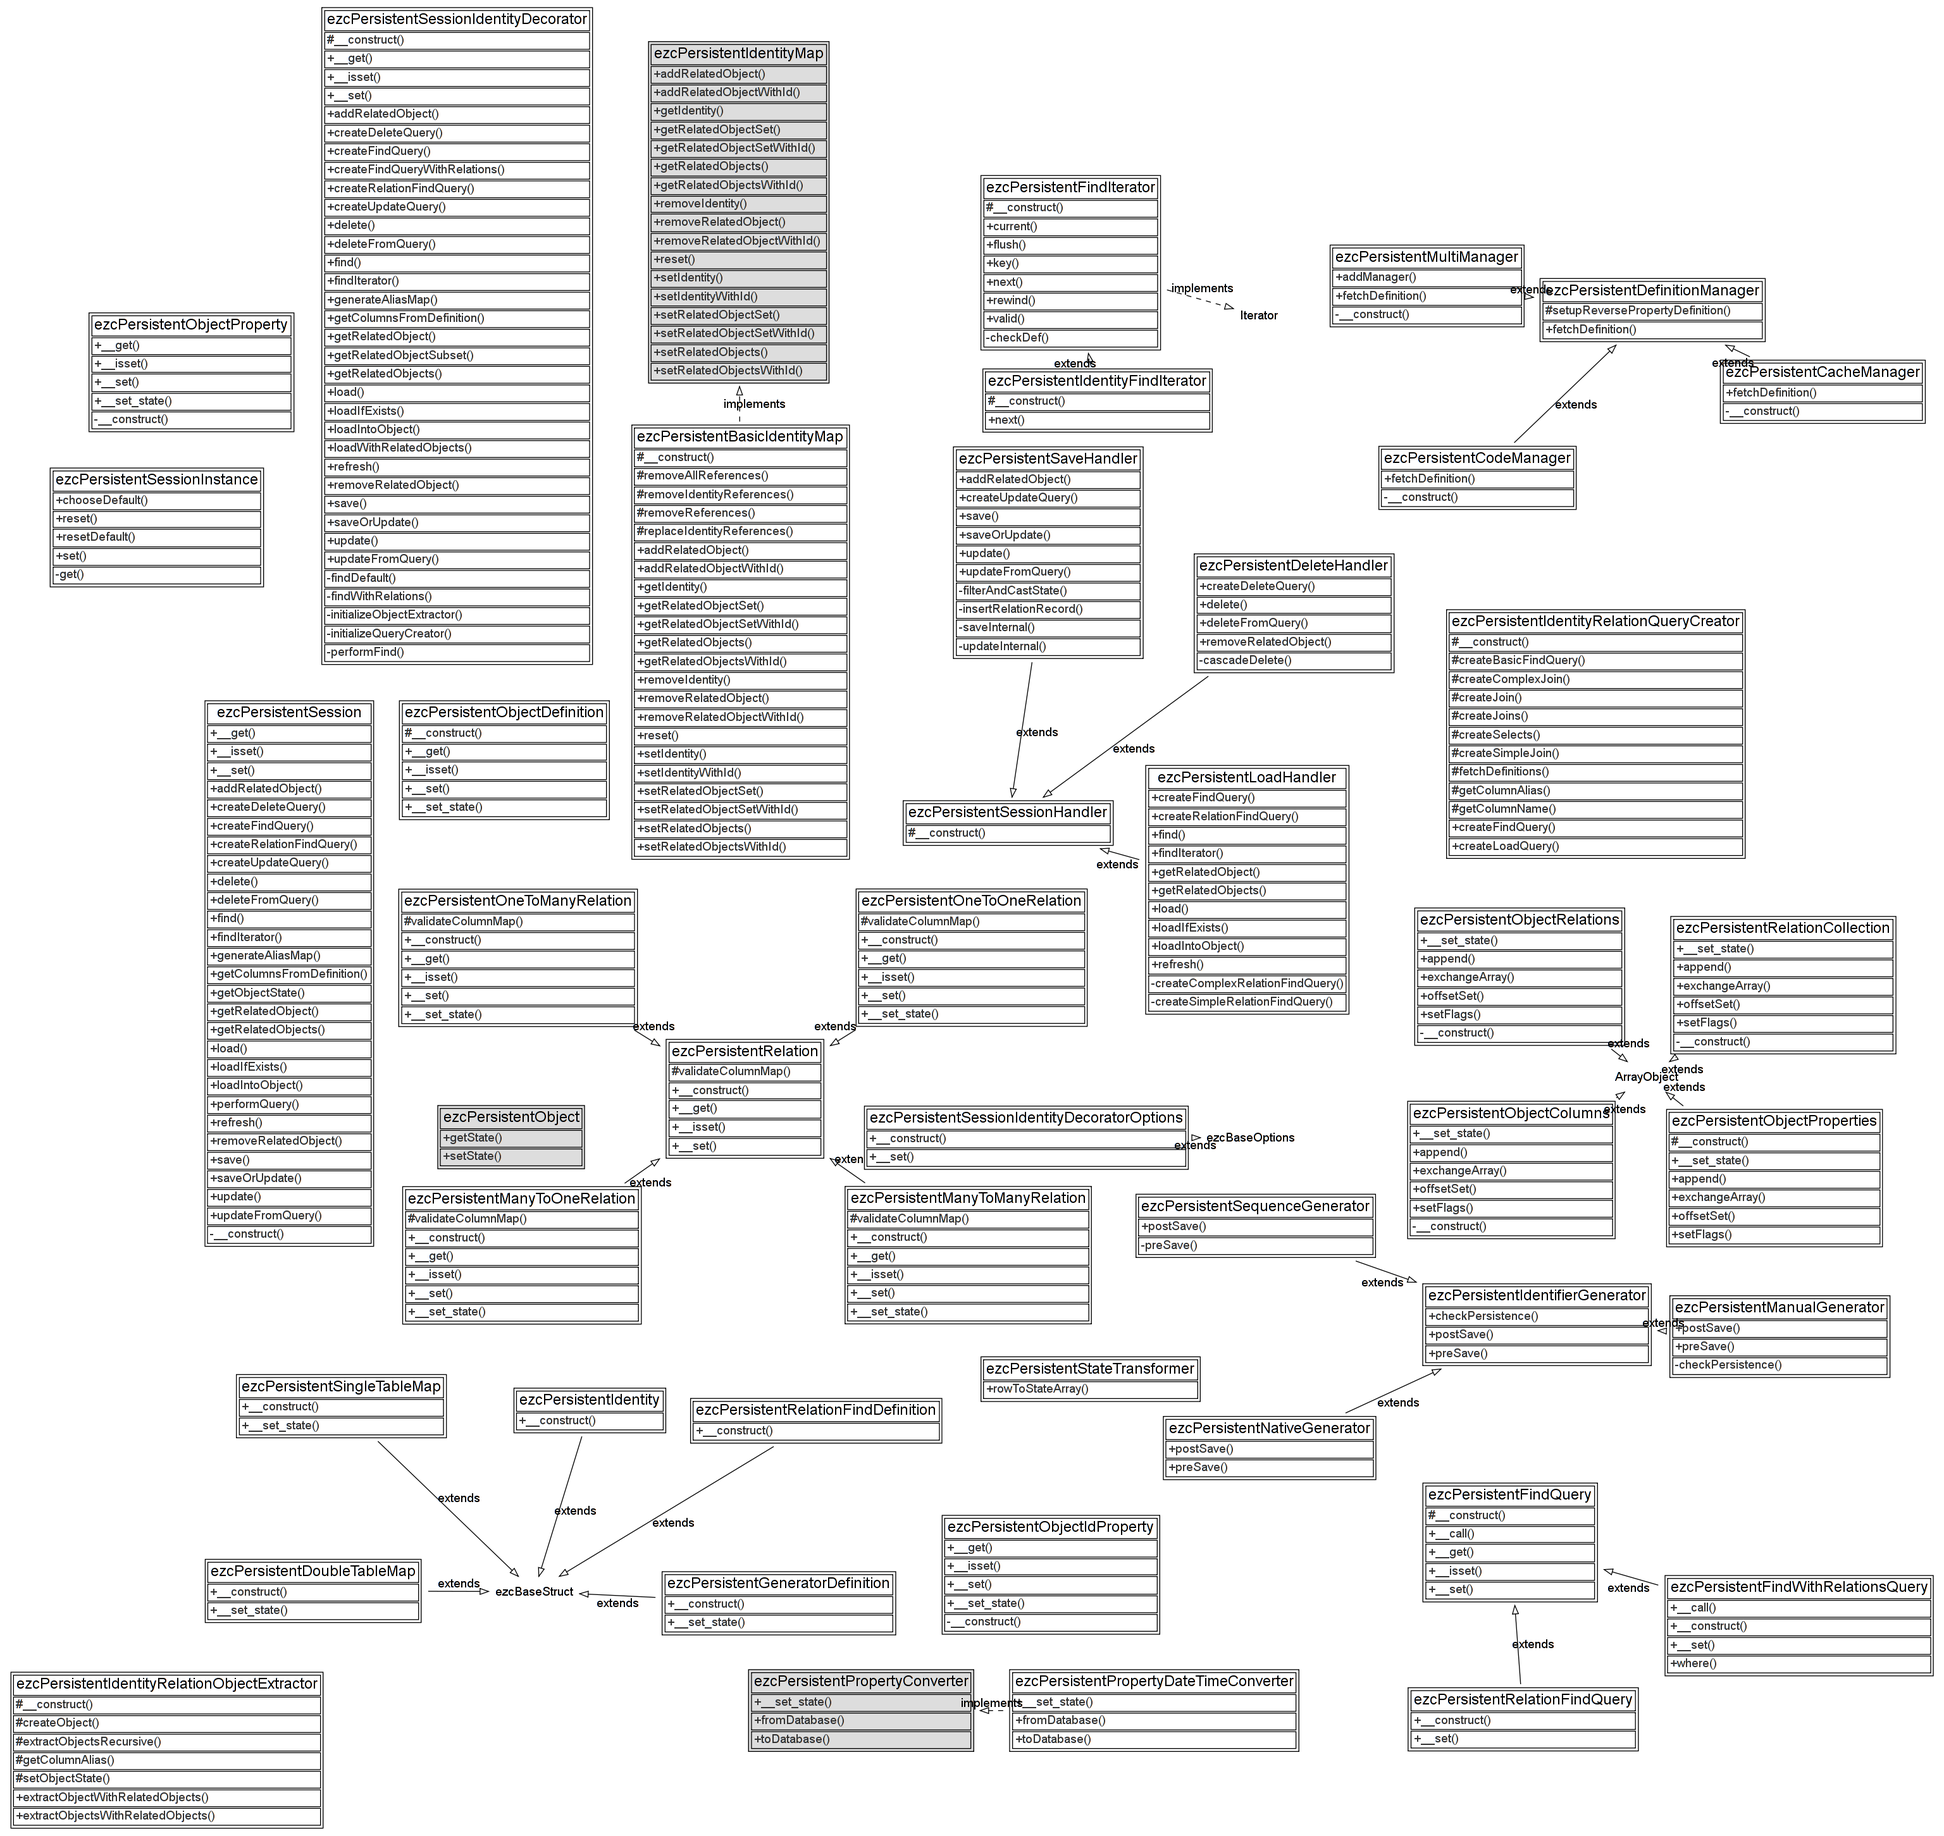
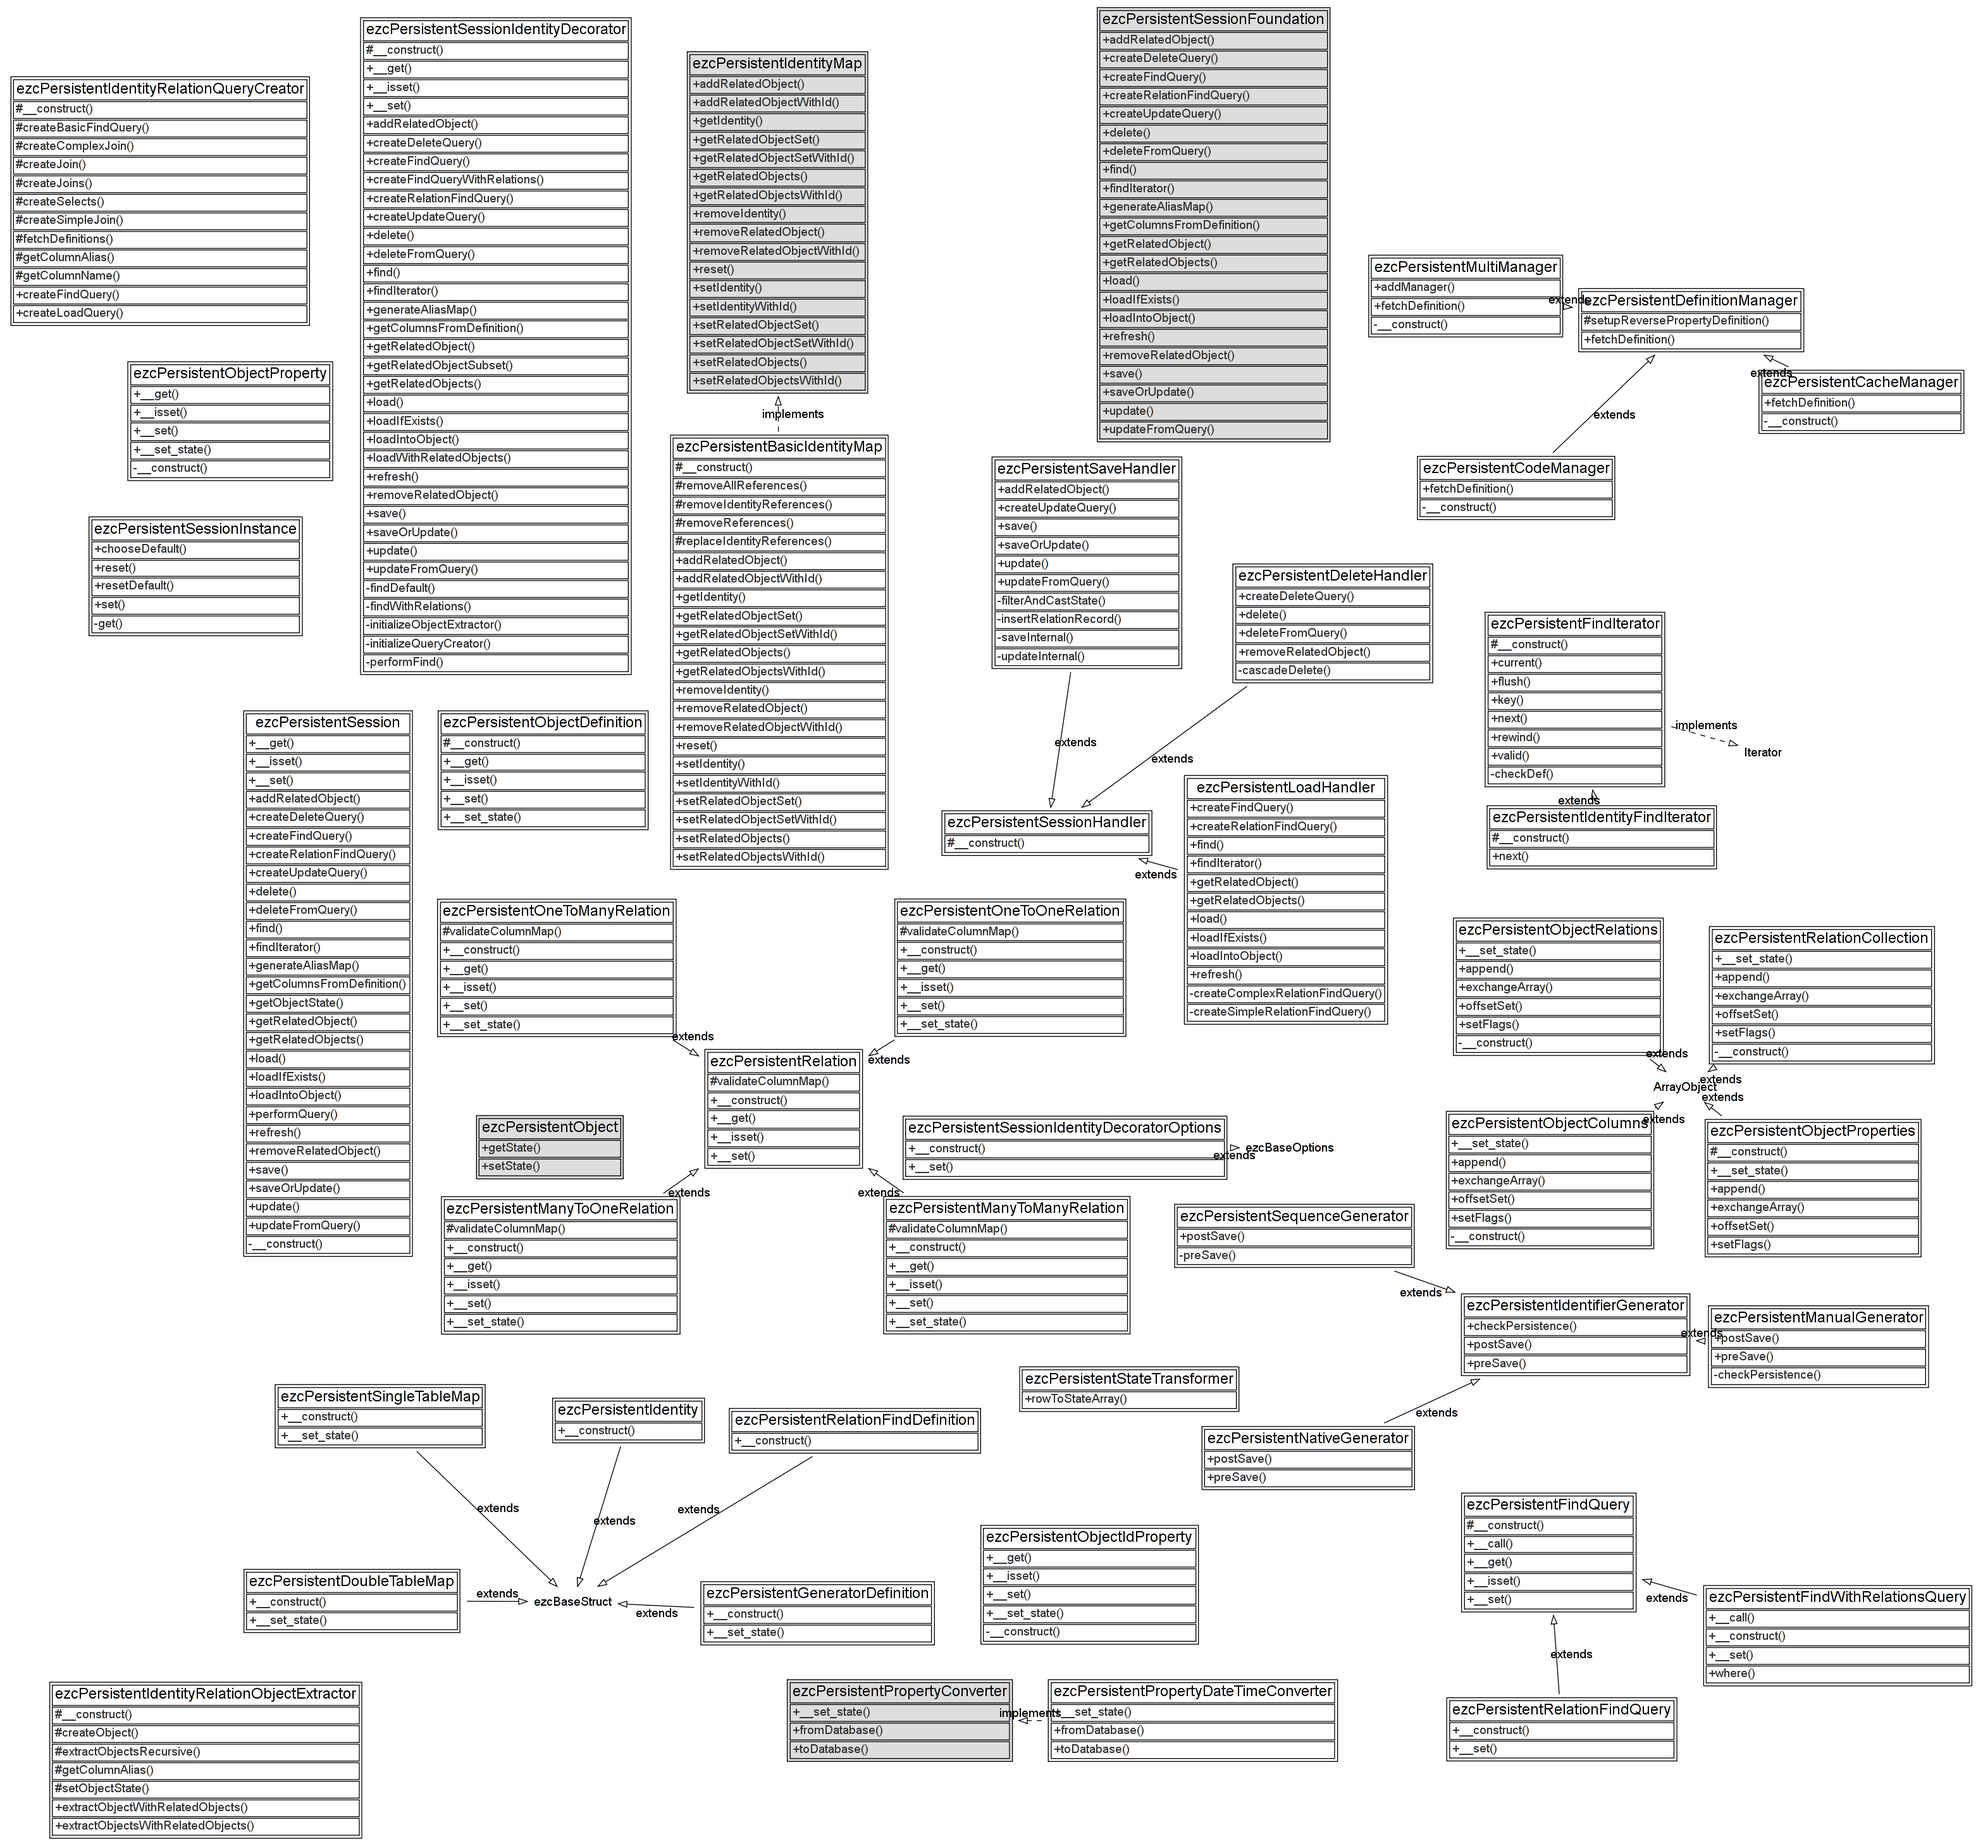
- Added interface ezcPersistentSessionFoundation as discussed on the ML. - Made ezcPersistentSession and ezcPersistentSessionIdentityDecorator implement   this interface.
git-svn-id: http://svn.ez.no/svn/ezcomponents/trunk@10221 bc0e7bdc-f0fc-0310-8ff6-f601c06e1256

Changed region(s): [[0.0, 0.0, 0.9997, 1.0], [0.7185, 0.8061, 0.9997, 0.9611]]

diff --git a/PersistentObject/src/persistent_autoload.php b/PersistentObject/src/persistent_autoload.php
@@ -69,6 +69,7 @@ return array(
     'ezcPersistentSaveHandler'                                 => 'PersistentObject/handlers/save_handler.php',
     'ezcPersistentSequenceGenerator'                           => 'PersistentObject/generators/sequence_generator.php',
     'ezcPersistentSession'                                     => 'PersistentObject/persistent_session.php',
+    'ezcPersistentSessionFoundation'                           => 'PersistentObject/interfaces/persistent_session_foundation.php',
     'ezcPersistentSessionIdentityDecorator'                    => 'PersistentObject/session_decorators/identity.php',
     'ezcPersistentSessionIdentityDecoratorOptions'             => 'PersistentObject/options/identity_session.php',
     'ezcPersistentSessionInstance'                             => 'PersistentObject/persistent_session_instance.php',

diff --git a/PersistentObject/src/session_decorators/identity.php b/PersistentObject/src/session_decorators/identity.php
@@ -20,10 +20,8 @@
  * @package PersistentObject
  * @version //autogen//
  * @mainclass
- *
- * @TODO: Should this extend ezcPersistentSession to suite instanceof checks?
  */
-class ezcPersistentSessionIdentityDecorator
+class ezcPersistentSessionIdentityDecorator implements ezcPersistentSessionFoundation
 {
     /**
      * Holds the properties of this class.

diff --git a/PersistentObject/src/persistent_session.php b/PersistentObject/src/persistent_session.php
@@ -24,7 +24,7 @@
  * @version //autogen//
  * @mainclass
  */
-class ezcPersistentSession
+class ezcPersistentSession implements ezcPersistentSessionFoundation
 {
     /**
      * Holds the properties of this class.
